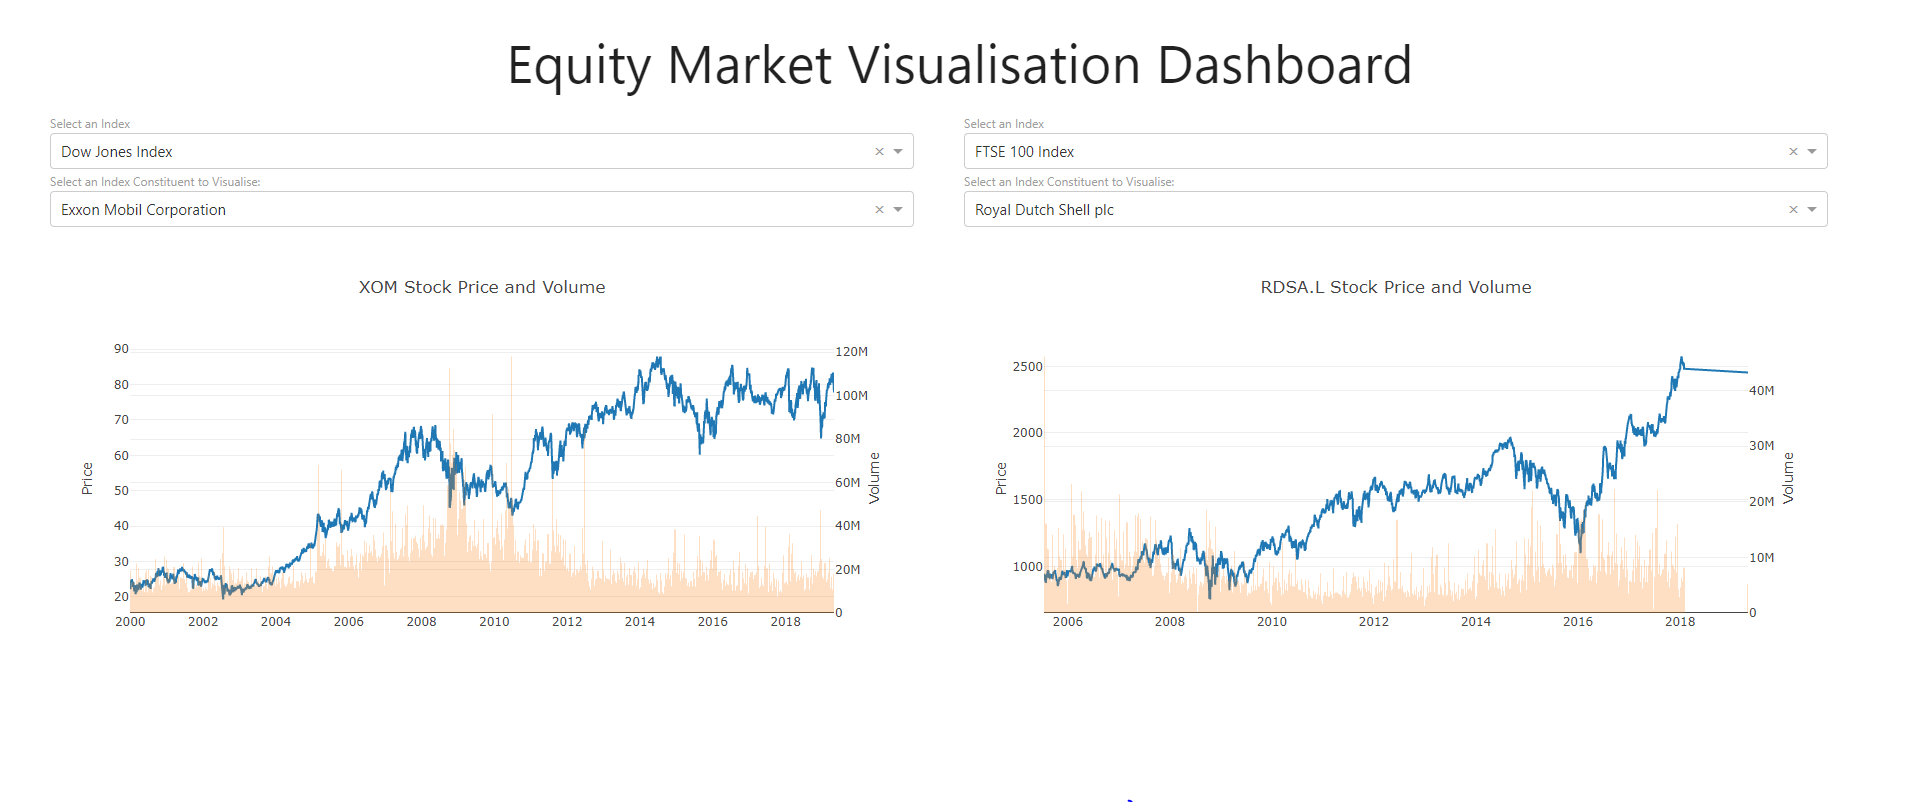
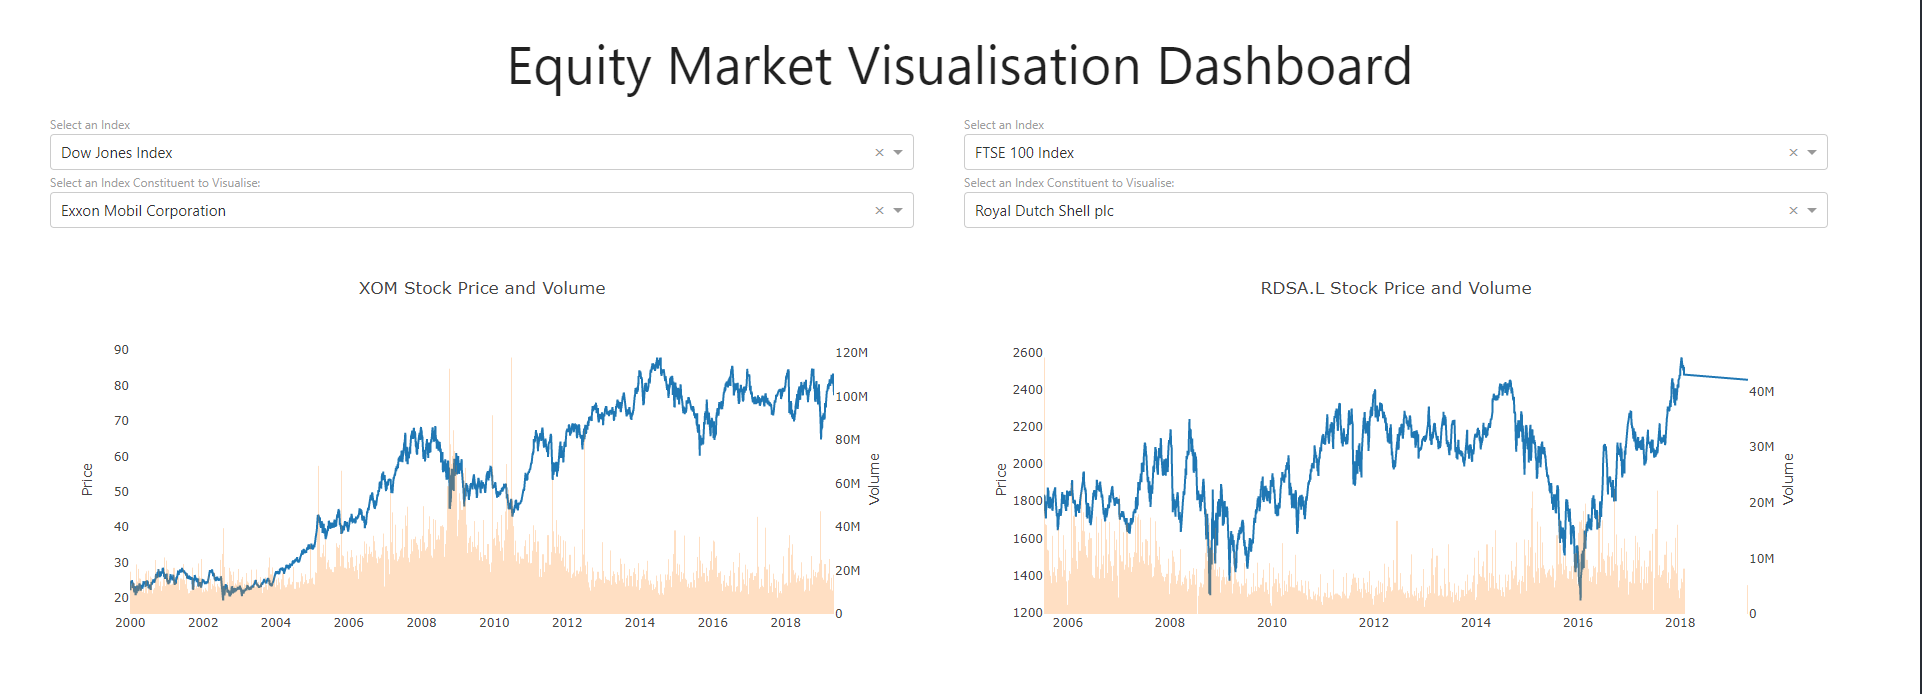
updated app.py; updated screenshot.png

diff --git a/app.py b/app.py
@@ -136,19 +136,17 @@ for col in range(num_cols):
         Output(
             component_id=f"constituent-dropdown-{graph_index}", component_property='options'),
         [Input(
-            component_id=f"index-dropdown-{graph_index}", component_property='value')]
-    )
+            component_id=f"index-dropdown-{graph_index}", component_property='value')])
     def populate_constituents(market_index):
         market_dict = load_constituents(market_index)
         return [{'label': i, 'value': market_dict[i]} for i in market_dict.keys()]
 
     # Return pandas DataFrame from Yahoo Finance API based on stock selected.
     @app.callback(
-        Output(component_id=f"graph-{graph_index}",
-               component_property='children'),
-        [Input(component_id=f"constituent-dropdown-{graph_index}",
-               component_property='value')]
-    )
+        Output(
+            component_id=f"graph-{graph_index}", component_property='children'),
+        [Input(
+            component_id=f"constituent-dropdown-{graph_index}", component_property='value')])
     def update_graph(ticker):
         start = dt.datetime(year=2000, month=1, day=1)
         end = dt.datetime.now()
@@ -163,8 +161,10 @@ for col in range(num_cols):
             },
             figure={
                 'data': [
+                    # Plot the time series of stock prices.
                     {'x': df.index, 'y': df['Adj Close'],
                         'type': 'line', 'name': 'Price'},
+                    # Plot the time series of stock volumes.
                     {'x': df.index, 'y': df['Volume'], 'type': 'bar',
                         'name': 'Volume', 'yaxis': 'y2', 'opacity': 0.25},
                 ],
@@ -172,12 +172,16 @@ for col in range(num_cols):
                     showlegend=False,
                     title=f'{ticker} Stock Price and Volume',
                     yaxis=dict(
-                        title='Price'
+                        title='Price',
+                        showgrid=False,
+                        zeroline=False,
                     ),
                     yaxis2=dict(
                         title='Volume',
                         overlaying='y',
                         side='right',
+                        showgrid=False,
+                        zeroline=False,
                     ),
                 )
             }
